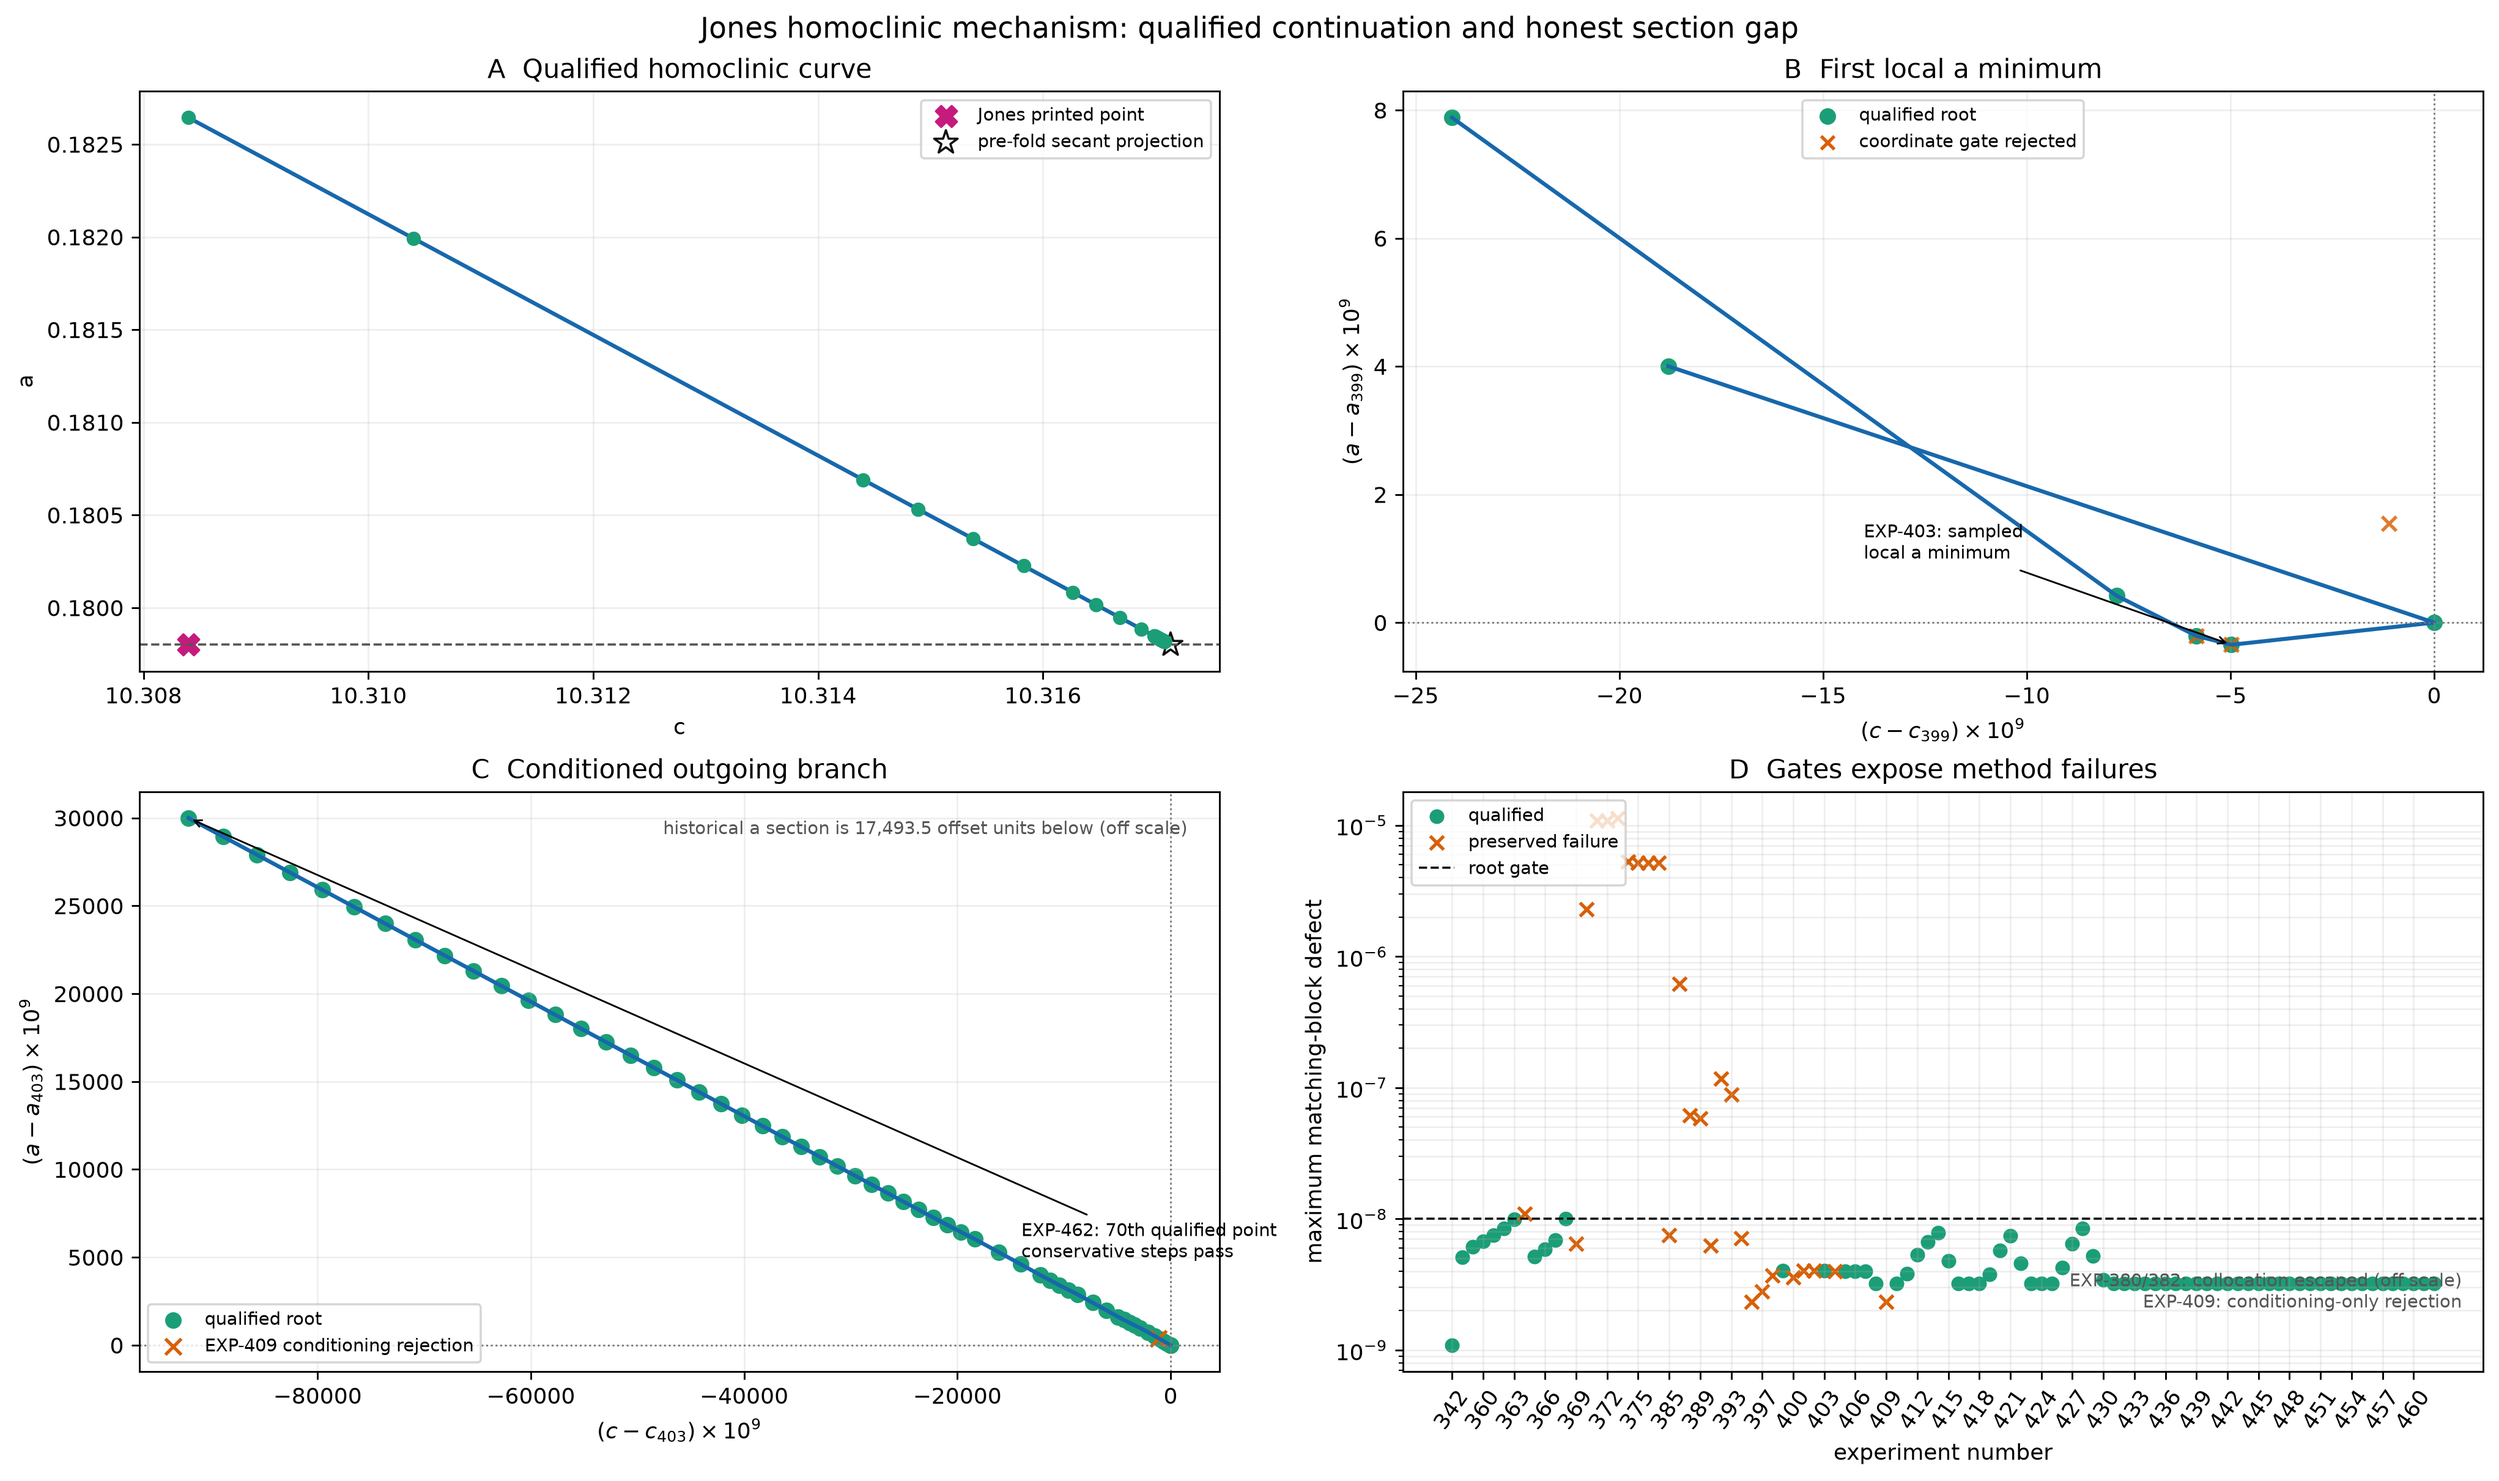
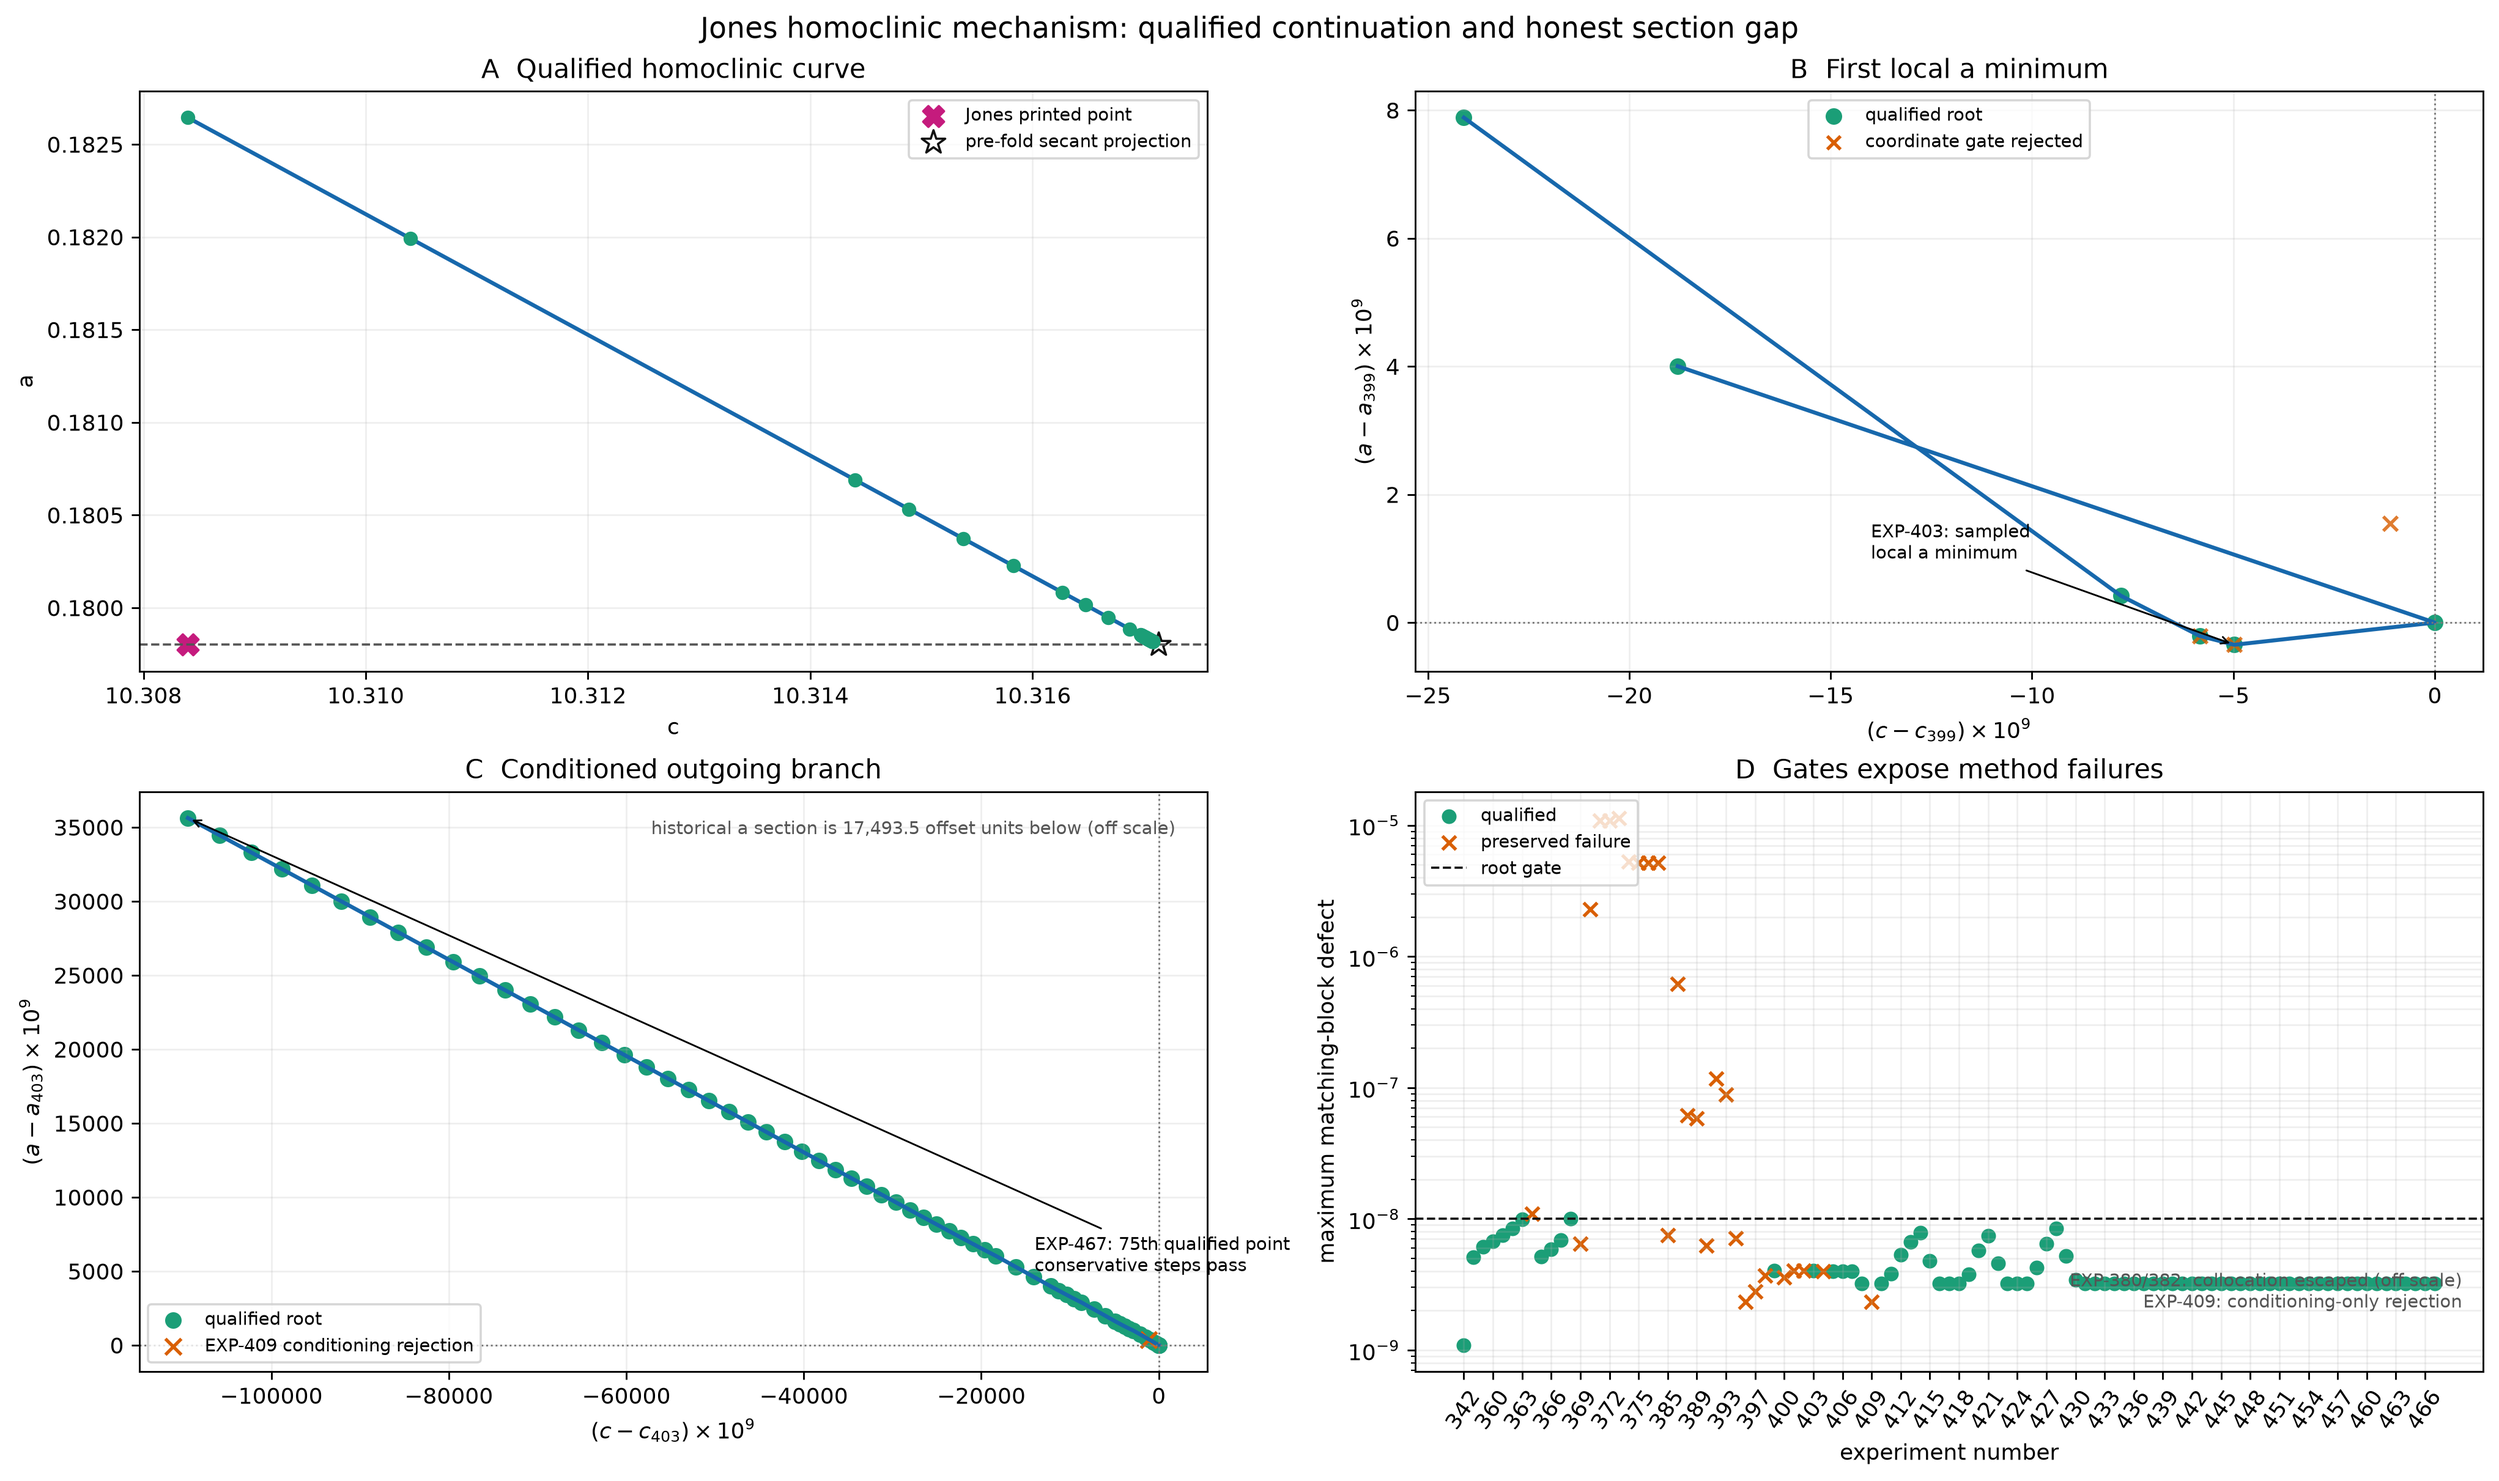
Render seventy-five-point homoclinic checkpoint

diff --git a/docs/updates/2026-08-30-exp467-seventy-five-point-checkpoint.md b/docs/updates/2026-08-30-exp467-seventy-five-point-checkpoint.md
@@ -20,8 +20,18 @@ therefore strengthens the nearby homoclinic-mechanism claim but does not
 recover the printed coordinate or establish a later return, global
 nonintersection, uniqueness, or computer-assisted existence.
 
-The receipt-bound figure and manuscript refresh are the next checkpoint
-actions. EXP-468 is frozen prospectively as the first post-checkpoint
+The receipt-bound four-panel figure contains all 75 qualified roots and all 26
+preserved failures. It was generated from clean source commit
+`52362a8ddabaaad735f0a421d19867fe9b173e0e` and passed full-resolution visual
+inspection:
+
+```text
+figure SHA-256  93089fb98fb170ec027f48a02f76ab297b6d7804f7c5b1b31e08d3709abcc3bd
+receipt SHA-256 9ca3c7203ddf7f2ab21b71afe6181146981348f7ffba80d7f175ad637cbe6451
+```
+
+The manuscript refresh is the next checkpoint action. EXP-468 is frozen
+prospectively as the first post-checkpoint
 successor. It binds exact passed EXP-466/467 receipts, recomputes the tangent
 at EXP-467, and retains every numerical setting and acceptance gate. A pass
 adds the seventy-sixth point; a failure is preserved.
